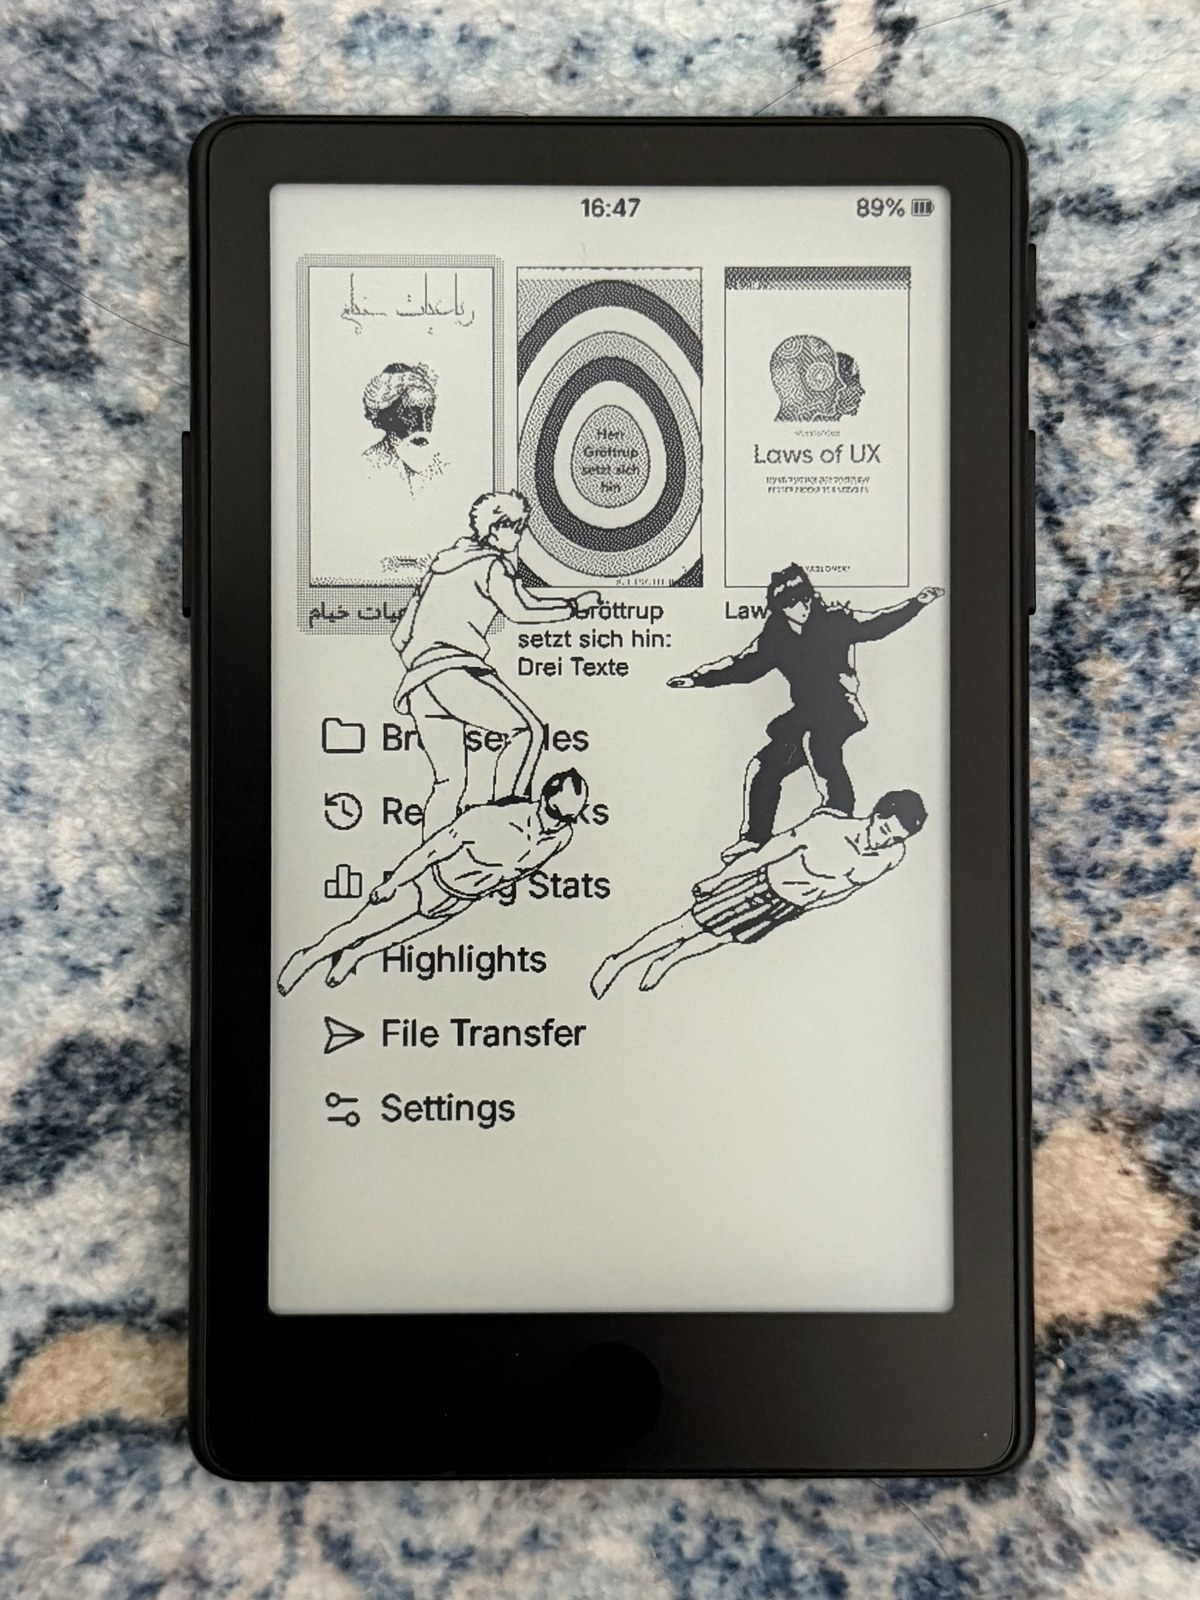
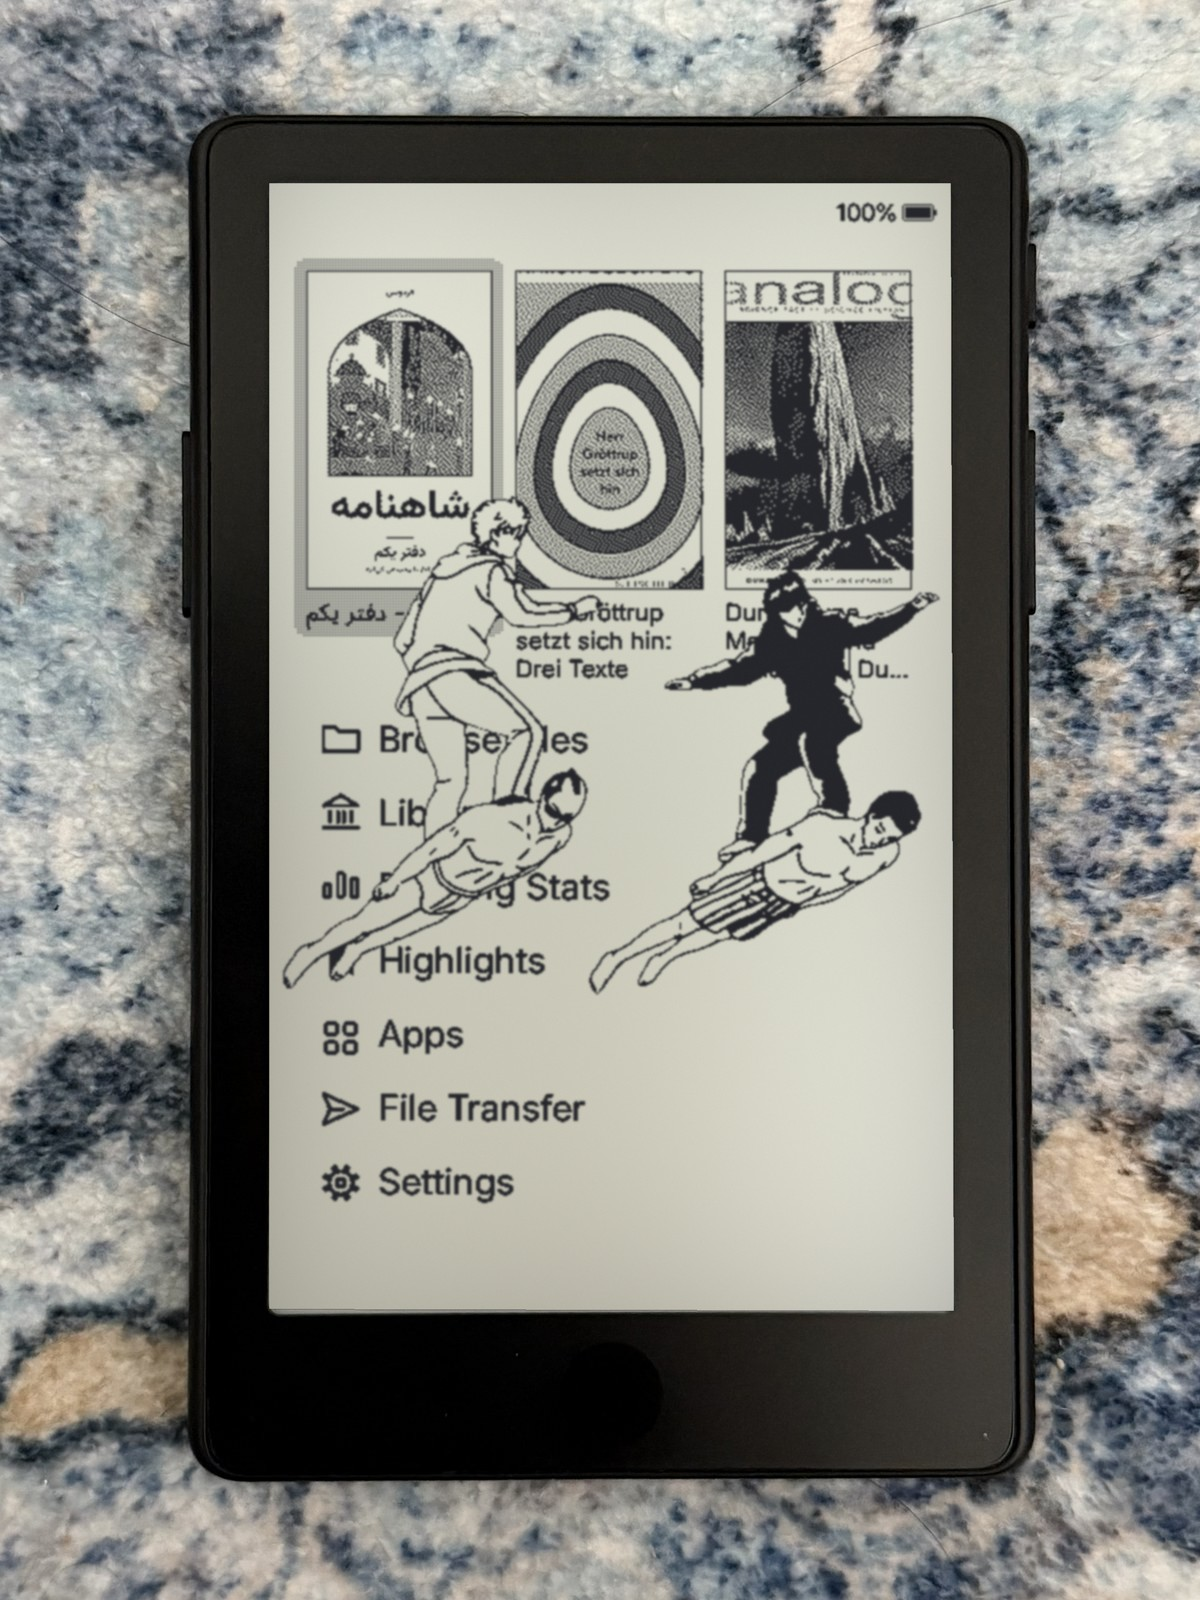
README: every VARAGH feature first, version history, simulator link, 1.3.1 heading
- Why VARAGH lists all features since 1.0.0 under ten headings.
- New in 1.3.1 and a version history table; earlier release sections kept.
- Heading photo: the same X4 Pro and rug, the screen now VARAGH 1.3.1 asleep.
- Install: no font to copy any more; NotoVazir optional.

Changed region(s): [[0.2158, 0.0938, 0.8017, 0.8125]]

diff --git a/README.md b/README.md
@@ -13,6 +13,7 @@
 
 <p align="center">
   <a href="https://github.com/PewPewzxc/VARAGH/releases/latest"><b>Download</b></a> ·
+  <a href="https://pewpewzxc.github.io/reader-simulator/"><b>Try it in your browser</b></a> ·
   <a href="FEATURES.md"><b>Features</b></a> ·
   <a href="#install"><b>Install</b></a> ·
   <a href="CHANGELOG.md"><b>Changelog</b></a> ·
@@ -20,7 +21,7 @@
 </p>
 
 <p align="center">
-  <img src="docs/images/varagh/cover.jpg" width="420" alt="VARAGH on the Xteink X4 Pro, with a Persian, a German and an English book on the Home screen">
+  <img src="docs/images/varagh/cover.jpg" width="420" alt="VARAGH 1.3.1 asleep on the Xteink X4 Pro: the Shahnameh, a German and an English book on Home, under a drawing used as the sleep picture">
 </p>
 
 **VARAGH** (ورق, Persian for "a sheet / a page") is e-reader firmware for the
@@ -35,11 +36,177 @@ their features are kept.
 > VARAGH is an independent community project, not affiliated with or endorsed by
 > Xteink, CrossInk or CrossPoint.
 
-**Contents:** [New in 1.3.0](#new-in-130-lion-) · [Earlier releases](#earlier-releases) ·
-[Features](#features) · [Install](#install) · [Build from source](#build-from-source) ·
+**Contents:** [Why VARAGH](#why-varagh) · [Try it first](#try-it-first) ·
+[New in 1.3.1](#new-in-131-lion-) · [Version history](#version-history) ·
+[Install](#install) · [Build from source](#build-from-source) ·
 [Contributing](#contributing) · [Support](#support) · [Credits](#credits-and-licences)
 
-## New in 1.3.0 "Lion" 🦁
+## Why VARAGH
+
+VARAGH turns the Xteink readers into a tool for reading and learning in English,
+German and Persian. On top of everything CrossInk and CrossPoint already do, it adds
+the following, release by release since 1.0.0.
+
+### Languages
+
+- **English, German and Persian built in:** every reader shows all three straight
+  after installing, with no font to copy to the SD card.
+- **Persian and Arabic script:** right-to-left lines, joined letters, vowel marks,
+  Persian digits and «» quotes; mixed English and Persian paragraphs keep their
+  direction.
+- **Pronunciation letters:** IPA such as /θɪŋk/ or [haʊ̯s] in books, menus,
+  dictionaries and flashcards.
+- **Font fallback:** books that need Arabic script switch to a font that covers it;
+  downloaded fonts borrow the Persian letters they lack.
+- **Menus in 29 languages:** English and Deutsch built in; Persian and 26 more as
+  small downloads.
+- **Keyboards:** a Persian layout and Caps Lock.
+
+### Dictionaries and word lookup
+
+- **A dictionary per language:** one page with a tab for each language, its own
+  offline dictionary and two online sources.
+- **Online sources:** Wiktionary, Wikipedia, Datamuse (WordNet) and OpenThesaurus,
+  saved on the card after the first lookup; optional Keep Wi-Fi On.
+- **Word forms:** went → go, träumte → träumen, میروم → رفتن, with German
+  stemming and repair of broken apostrophes and hyphens.
+- **Remembers your choice:** the last dictionary stays the default; Switch
+  Dictionary at any time.
+- **Lookups never hang:** Back cancels an online lookup at once.
+
+### Selecting words
+
+- **Tap to Look Up:** one tap on a word opens its meaning.
+- **Long Press on a Word:** look up, highlight, add to a category, or Ask with a
+  bubble at the words.
+- **Hold to Select:** Fast, Normal, Slow or Very slow.
+- **Selection handles** to resize a selection, on the touch screen or with the
+  buttons.
+
+### Highlights and flashcards
+
+- **Highlights hub on Home:** Favorite Lines, your own categories and By Book.
+- **Add to…** straight from the dictionary.
+- **Flashcards:** Leitner boxes, *Again* / *Know it* and Practice, with the
+  pronunciation on the back.
+- **Swipe left to delete** in files, recent books, highlights, bookmarks, lookup
+  history and categories.
+
+### Books
+
+- **Drop caps, text and heading sizes**, bordered and lightly shaded boxes, and
+  tables, as the publisher made them.
+- **Smooth grey pictures** without a crosshatch pattern, on clean white paper.
+- **Line breaks after hyphens and dashes.**
+- **Book ratings:** five stars with halves, at the end of a book, in the book menu,
+  in Reading Stats and in Library.
+- **Next in series** at the end of a book.
+
+### Screen, light and controls
+
+- **Settings in eight groups** with an icon and a short description each.
+- **Control Center:** swipe down for light and warmth with exact 1 % steps and
+  eight buttons you choose (X4 Pro).
+- **Night light:** a second brightness and warmth from evening to morning (X4 Pro).
+- **Rotation** that turns the buttons and the touch screen with the page.
+- **Bluetooth page turner:** pair a remote and map its buttons.
+- **One bold icon style** made for e-ink, and the VARAGH logo on the boot and
+  sleep screens.
+
+### Apps and clock
+
+- **Games:** Wordle, Sudoku with an answer check, Chess, Checkers, Go and
+  Tic Tac Toe; apps stay open across sleep; hide the ones you do not use.
+- **Clock & Calendar** with the Persian date, also as a sleep screen.
+- **A clock that stays right:** set on every Wi-Fi connect, Automatic Time Zone,
+  Summer Time and an optional Live Clock.
+
+### Speed and battery
+
+- **Fast chapters:** long chapters show their first page at once (Automatic
+  indexing), with a faster SD card and fonts kept in memory.
+- **Fast picture pages:** the next page's pictures are prepared while you read.
+- **Battery:** the processor slows down sooner and the display powers down when
+  idle, while buttons still respond instantly.
+
+### Readers and updates
+
+- **Three readers:** the X4 Pro with touch and front light; the X4 Classic and X3
+  with every feature on the buttons.
+- **Safe updates:** Check for Updates installs the newest VARAGH release, and the
+  reader warns before a firmware from another project replaces it.
+
+<table>
+  <tr>
+    <td align="center" width="33%"><img src="docs/images/varagh/v1.3.1/mixed-languages.png" width="250" alt="One page with English, a Persian line, German words, a table and pronunciations"><br><b>Three languages on one page</b></td>
+    <td align="center" width="33%"><img src="docs/images/varagh/v1.3.1/persian-book.png" width="250" alt="The first page of the Shahnameh in Persian"><br><b>Persian books</b></td>
+    <td align="center" width="33%"><img src="docs/images/varagh/v1.3.1/german-lookup-ipa.png" width="250" alt="German dictionary entry for Haus with its pronunciation over the book page"><br><b>German → English</b></td>
+  </tr>
+  <tr>
+    <td align="center" width="33%"><img src="docs/images/varagh/v1.3.1/persian-lookup.png" width="250" alt="The Persian word خرد looked up in a Persian dictionary"><br><b>Persian → Persian</b></td>
+    <td align="center" width="33%"><img src="docs/images/varagh/v1.3.1/flashcards.png" width="250" alt="A flashcard deck with German words and the Practice button"><br><b>Flashcards</b></td>
+    <td align="center" width="33%"><img src="docs/images/varagh/v1.3.1/home.png" width="250" alt="Home with the Shahnameh cover and the menu"><br><b>Home</b></td>
+  </tr>
+</table>
+
+Every feature, with photos and how to use it: **[FEATURES.md](FEATURES.md)**.
+
+### Try it first
+
+The **[Reader Simulator](https://pewpewzxc.github.io/reader-simulator/)** runs
+VARAGH in your web browser, on an X4 Pro, X4 Classic or X3 screen, with no reader
+needed. Open your own books in it, try the dictionary and the apps, then decide.
+
+## New in 1.3.1 "Lion" 🦁
+
+- **Persian, German and pronunciations built in** on every reader: no font to
+  copy to the SD card any more, and downloaded fonts such as Bitter borrow the
+  Persian letters they lack.
+- **Settings is a list of eight groups** with an icon and a short line each.
+- **Books look like books:** drop caps, CSS text and heading sizes, bordered and
+  lightly shaded boxes, and line breaks after dashes.
+- **Bluetooth page turner:** pair a remote and map its buttons.
+- **Faster picture pages:** the next page's pictures are prepared while you read.
+- **Sudoku answer check**, and a **clock that stays right**: it is set on every
+  Wi-Fi connect, with an Automatic Time Zone and an optional Live Clock.
+
+<table>
+  <tr>
+    <td align="center" width="33%"><img src="docs/images/varagh/v1.3.1/settings-groups.png" width="250" alt="Settings as eight groups with icons and descriptions"><br><b>Settings in groups</b></td>
+    <td align="center" width="33%"><img src="docs/images/varagh/v1.3.1/drop-cap.png" width="250" alt="A chapter opening with a large drop cap over three lines"><br><b>Drop caps</b></td>
+    <td align="center" width="33%"><img src="docs/images/varagh/v1.3.1/box.png" width="250" alt="A tip in a bordered box with a light grey background"><br><b>Boxes</b></td>
+  </tr>
+  <tr>
+    <td align="center" width="33%"><img src="docs/images/varagh/v1.3.1/table.png" width="250" alt="A table with English, German and Persian words"><br><b>Tables</b></td>
+    <td align="center" width="33%"><img src="docs/images/varagh/v1.3.1/picture.png" width="250" alt="A lake at dawn drawn in smooth greys"><br><b>Pictures</b></td>
+    <td align="center" width="33%"><img src="docs/images/varagh/v1.3.1/flashcard-back-ipa.png" width="250" alt="The back of a flashcard for Häuser with its pronunciation"><br><b>Pronunciations everywhere</b></td>
+  </tr>
+</table>
+
+<sub>Screens captured from the 1.3.1 firmware running in the Reader Simulator.</sub>
+
+See the [changelog](CHANGELOG.md) for everything.
+
+## Version history
+
+| Version | Date | What it added |
+|---|---|---|
+| **1.3.1 "Lion"** | 2026-11-03 | Persian, German and pronunciations built in on every reader, Settings in groups, drop caps, boxes and text sizes, Bluetooth page turner, faster picture pages, Sudoku answer check, clock sync and Live Clock |
+| **1.3.0 "Lion"** | 2026-10-20 | Control Center and night light, dictionaries per language with online sources, Persian menus and keyboard, went → go lookups, resizing a selection, rotation, one icon style, Go and Tic Tac Toe; the X4 Classic and X3 join with button apps and menu-language downloads |
+| **1.2.1 "Tiger"** | 2026-10-13 | Tap to Look Up, Long Press choices with Ask, book ratings, apps that stay open across sleep, a stronger chess computer, the new logo |
+| **1.2.0 "Tiger"** | 2026-10-07 | Apps on Home (Wordle, Sudoku, Chess, Checkers, Clock & Calendar), online Wiktionary dictionary, faster Home, Clock & Calendar sleep screen |
+| **1.1.0 "Tiger"** | 2026-10-01 | Smooth grey pictures, faster chapters (Automatic indexing), a faster SD card, longer battery life |
+| **1.0.1** | 2026-09-24 | Check for Updates and KOReader Sync no longer restart the X4 Pro |
+| **1.0.0** | 2026-09-24 | First release: Persian books, German → English lookup with word forms, Highlights and flashcards, swipe to delete, Hold to Select with handles, Summer Time |
+
+Every change, version by version: **[CHANGELOG.md](CHANGELOG.md)**.
+
+### Earlier releases
+
+<details>
+<summary>What came in 1.3.0 "Lion", 1.2.1, 1.2.0 and 1.1.0 "Tiger", with pictures (click to open)</summary>
+
+### New in 1.3.0 "Lion" 🦁
 
 - **Control Center:** swipe down for the light and warmth sliders with exact
   1 % − / + buttons, and eight buttons you choose (Settings → Controls).
@@ -73,13 +240,6 @@ their features are kept.
 </table>
 
 <sub>Screens captured from the 1.3.0 firmware running in the PC simulator.</sub>
-
-See the [changelog](CHANGELOG.md) for everything.
-
-## Earlier releases
-
-<details>
-<summary>What came in 1.2.1, 1.2.0 and 1.1.0 "Tiger" (click to open)</summary>
 
 ### New in 1.2.1 "Tiger"
 
@@ -163,48 +323,23 @@ See the [changelog](CHANGELOG.md) for everything.
   <img src="docs/images/varagh/tiger/shading-landscape.png" alt="The same picture on the X4 Pro screen: crosshatch pattern in 1.0.1, smooth greys in 1.1.0">
 </p>
 
-All changes: [CHANGELOG.md](CHANGELOG.md).
-
 </details>
-
-## Features
-
-- **Persian and Arabic:** books switch to a font that can show them, and Persian
-  words and pronunciations display correctly with any reader font (NotoVazir).
-- **German → English dictionary:** finds the dictionary form of inflected words,
-  with pronunciations.
-- **Highlights and flashcards:** Favorite Lines, your own categories, **Add to…**
-  from the dictionary, flashcards with *Again* / *Know it*.
-- **Online dictionary:** Wiktionary and Wikipedia over Wi-Fi, saved on the card
-  after the first lookup.
-- **Apps:** Wordle, Sudoku, Chess, Checkers, Clock & Calendar.
-- **Touch:** adjustable hold to select, selection handles, swipe left to delete.
-- **Battery and speed:** the display powers down when idle, smoother pictures,
-  faster chapters.
-
-<table>
-  <tr>
-    <td align="center" width="33%"><img src="docs/images/varagh/persian-book.jpg" width="250" alt="A Persian book in NotoVazir"><br><b>Persian books</b></td>
-    <td align="center" width="33%"><img src="docs/images/varagh/german-dictionary.jpg" width="250" alt="German to English dictionary entry with pronunciation"><br><b>German → English</b></td>
-    <td align="center" width="33%"><img src="docs/images/varagh/flashcard-back.jpg" width="250" alt="Back of a flashcard with Again and Know it buttons"><br><b>Flashcards</b></td>
-  </tr>
-</table>
-
-Every feature, with photos and how to use it: **[FEATURES.md](FEATURES.md)**.
 
 ## Install
 
 1. Download the file for your reader from the latest
-   [release](https://github.com/PewPewzxc/VARAGH/releases): `firmware-x4-pro.bin`,
+   [release](https://github.com/PewPewzxc/VARAGH/releases/latest): `firmware-x4-pro.bin`,
    `firmware-x4-classic.bin`, or `firmware-x3-x4.bin` (X3 and the original X4).
    Copy it to the SD card and
    flash it from **Settings → System → SD Card Firmware Update**
    (coming from the original Xteink firmware, see the
    [installation guide](docs/installation.md) first).
-2. From the same release, copy the `.fonts/NotoVazir` folder of
-   `varagh-sd-card-*.zip` to `/.fonts/NotoVazir/` on the SD card.
-3. Select **Settings → Reader → Font Options → Font Family → NotoVazir**.
-4. Optional German → English dictionary: see [Dictionaries](docs/varagh/DICTIONARIES.md).
+2. That is all: English, German and Persian books and pronunciations work with
+   the built-in fonts.
+3. Optional: a German → English dictionary, see [Dictionaries](docs/varagh/DICTIONARIES.md).
+4. Optional: NotoVazir, a different look for Persian. Copy the `.fonts/NotoVazir`
+   folder of `varagh-sd-card-*.zip` from the release to `/.fonts/NotoVazir/` on the
+   SD card and select **Settings → Reader → Font Options → Font Family → NotoVazir**.
 
 ### Readers without touch
 
@@ -218,7 +353,7 @@ Left/Right and press Confirm for Look Up, Highlight or Add to. Not available the
 Control Center, front light, night light, Tap to Look Up and selection handles.
 The X3/X4 firmware has English and German menus built in; other menu languages
 are picked in Settings → Language and download over Wi-Fi, or copy the
-`languages` folder of `varagh-v1.3.0-x3-x4-languages.zip` to the SD card.
+`languages` folder of `varagh-v1.3.1-x3-x4-languages.zip` to the SD card.
 
 **Updating:** Settings → System → Check for Updates installs the newest VARAGH
 release (from 1.0.0, update from the SD card once). Only install VARAGH firmware:
